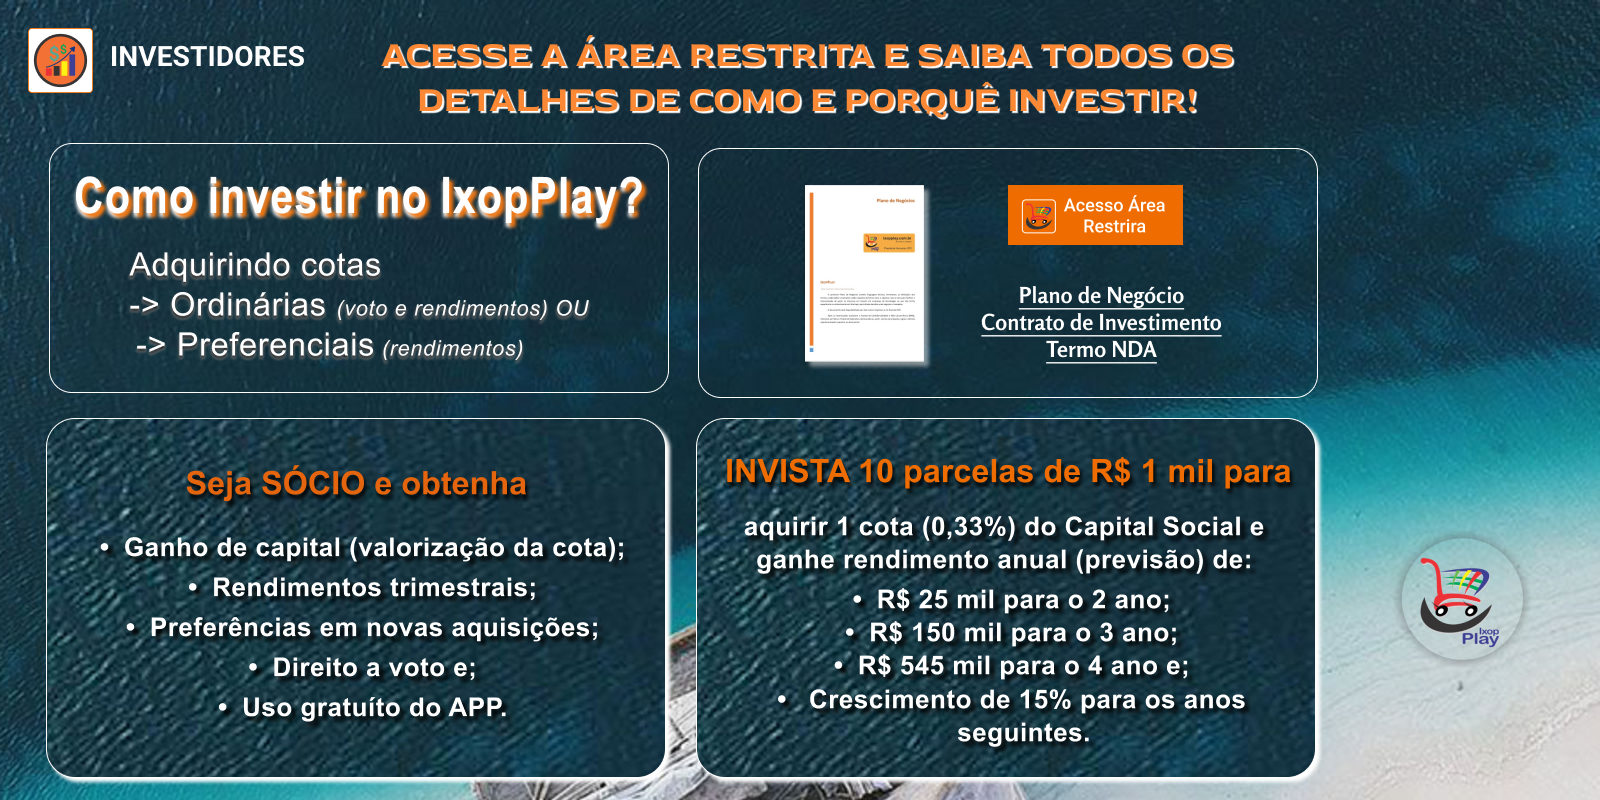
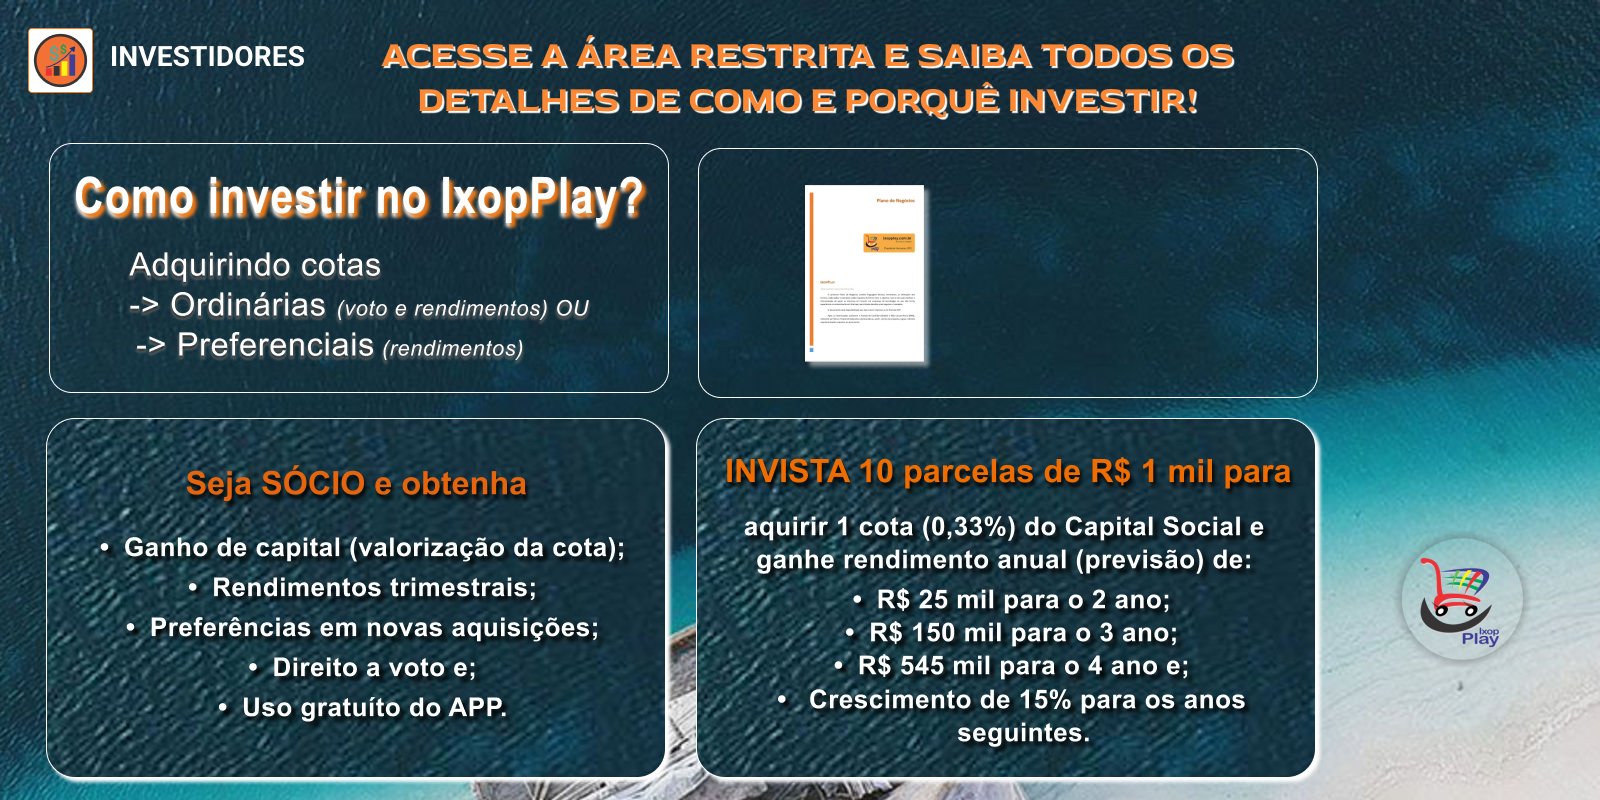
restrict area done

Changed region(s): [[0.625, 0.3438, 0.75, 0.4688], [0.625, 0.2188, 0.75, 0.3125]]

diff --git a/index.html b/index.html
@@ -223,7 +223,7 @@
             <span>INVESTIDORES</span>
         </div>
         <div class="content-holder">
-            <div class="socio">
+            <!-- <div class="socio">
                 <h1>Como investir no IxopPlay?</h1>
                 <h3>Adquirindo cotas</h3>
                 <h3>-> Ordinárias (voto e rendimentos) OU</h3>
@@ -239,24 +239,25 @@
                         <li>Uso gratuito do APP</li>
                     </ul>
                 </div>
+            </div> -->
+            <div class="restrict-area-holder">
+                <div class="restrict-area-button">
+                    <img src="public/assets/images/misc/Icones2.png" alt="">
+                    <a href="">Acesso Área Restrita</a>
+                </div>
+                <ul>
+                    <li><a href="">Downloads</a></li>
+                    <li><a href="">Plano de Negócio</a></li>
+                    <li><a href="">Contrato de Investimento</a></li>
+                    <li><a href="">Termo NDA</a></li>
+                </ul>
             </div>
             <div class="invest">
                 <div class="documents-holder">
-                    <img src="public/assets/images/misc/business.png" alt="">
-                    <div class="restrict-area-holder">
-                        <div class="restrict-area-button">
-                            <img src="public/assets/images/misc/Icones2.png" alt="">
-                            <a href="">Acesso Área Restrita</a>
-                        </div>
-                        <ul>
-                            <li><a href="">Downloads</a></li>
-                            <li><a href="">Plano de Negócio</a></li>
-                            <li><a href="">Contrato de Investimento</a></li>
-                            <li><a href="">Termo NDA</a></li>
-                        </ul>
-                    </div>
+                    <!-- <img src="public/assets/images/misc/business.png" alt=""> -->
+                    
                 </div>
-                <div class="benefits-holder">
+                <!-- <div class="benefits-holder">
                     <h2>INVISTA 10 parcelas de R$ 1 mil para</h2>
                     <h3>Adquirir 1 cota (0,33%) do Capital Social e ganhe rendimento
                         anual (previsão) de:
@@ -267,8 +268,7 @@
                         <li>R$ 545 mil para o 4 ano e;</li>
                         <li>Crescimento de 15% para os anos seguintes.</li>
                     </ul>
-                </div>
-
+                </div> -->
             </div>
         </div>
 

diff --git a/public/css/styles.css b/public/css/styles.css
@@ -491,7 +491,6 @@ section{
 }
 #investors .content-holder{
     display: flex;
-    display: none;
     padding-left: 3%;
 }
 #investors .benefits-holder{
@@ -524,6 +523,9 @@ section{
 }
 #investors .restrict-area-holder{
     margin-left: 5%;
+    position: absolute;
+    top: 25%;
+    left: 55%;
 }
 #investors .restrict-area-holder .restrict-area-button{
     background-color: #FA8834;
